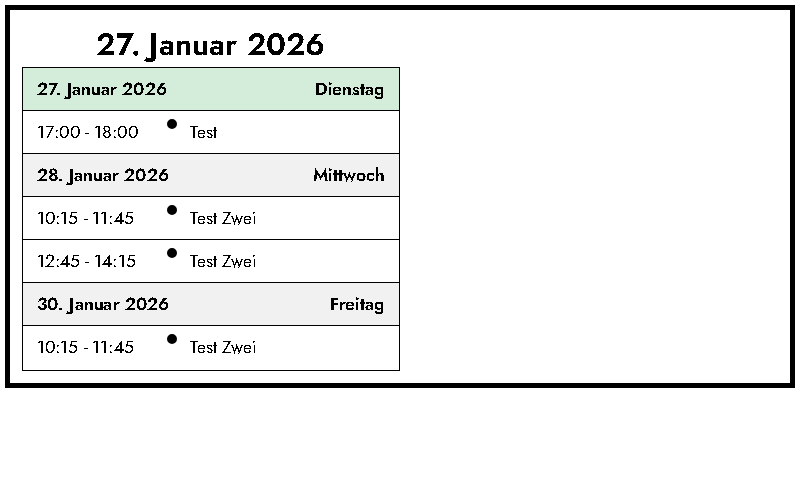
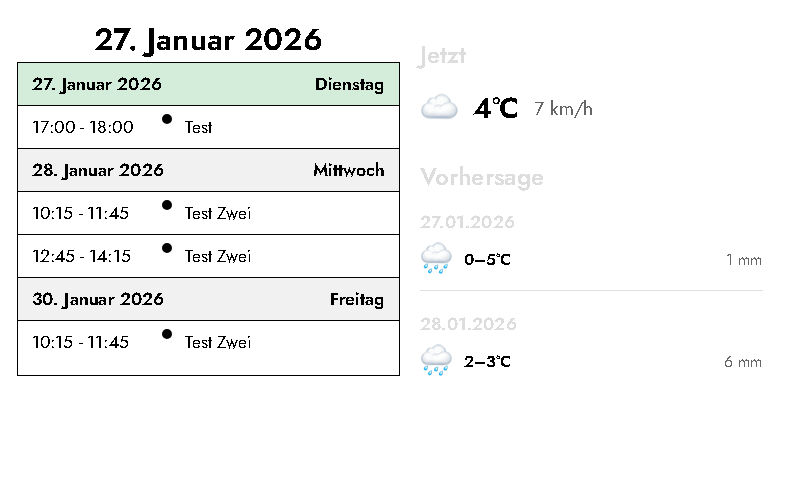
waether 1

diff --git a/src/plugins/seniorDashboard_allDay/render/seniorDashboard_allDay.html b/src/plugins/seniorDashboard_allDay/render/seniorDashboard_allDay.html
@@ -20,7 +20,35 @@
         </div>
     </div>
     <div class="dashboard-right">
-        <!-- Right side content will be added here -->
+        <div class="weather-container">
+            {% if weather and weather.current %}
+            <div class="weather-current">
+                <h2 class="weather-title">Jetzt</h2>
+                <div class="weather-current-content">
+                    <span class="weather-icon">{{ weather.current.icon }}</span>
+                    <span class="weather-temp">{{ weather.current.temperature|round|int }}°C</span>
+                    <span class="weather-wind">{{ weather.current.windspeed|round|int }} km/h</span>
+                </div>
+            </div>
+            {% endif %}
+
+            {% if weather and weather.forecast %}
+            <div class="weather-forecast">
+                <h2 class="weather-title">Vorhersage</h2>
+                {% for day in weather.forecast %}
+                <div class="weather-day">
+                    <div class="weather-day-date">{{ day.date }}</div>
+                    <div class="weather-day-content">
+                        <span class="weather-icon">{{ day.icon }}</span>
+                        <span class="weather-temp-range">{{ day.temp_min|round|int }}–{{ day.temp_max|round|int
+                            }}°C</span>
+                        <span class="weather-precipitation">{{ day.precipitation|round|int }} mm</span>
+                    </div>
+                </div>
+                {% endfor %}
+            </div>
+            {% endif %}
+        </div>
     </div>
 </div>
 

diff --git a/src/plugins/seniorDashboard_allDay/render/seniorDashboard_allDay.css b/src/plugins/seniorDashboard_allDay/render/seniorDashboard_allDay.css
@@ -22,6 +22,89 @@
 .dashboard-right {
   width: 50%;
   height: 100%;
+  padding: 20px;
+  font-family: "Jost";
+  overflow-y: auto;
+}
+
+.weather-container {
+  width: 100%;
+  height: 100%;
+  display: flex;
+  flex-direction: column;
+  gap: 30px;
+}
+
+.weather-title {
+  font-size: calc(1.5 * var(--fc-table-font-size, 1em));
+  font-weight: bold;
+  margin-bottom: 15px;
+  color: var(--fc-border-color, #000);
+}
+
+.weather-current {
+  width: 100%;
+}
+
+.weather-current-content {
+  display: flex;
+  align-items: center;
+  gap: 15px;
+  font-size: calc(1.2 * var(--fc-table-font-size, 1em));
+}
+
+.weather-icon {
+  font-size: calc(2 * var(--fc-table-font-size, 1em));
+  line-height: 1;
+}
+
+.weather-temp {
+  font-size: calc(1.5 * var(--fc-table-font-size, 1em));
+  font-weight: bold;
+}
+
+.weather-wind {
+  font-size: calc(1 * var(--fc-table-font-size, 1em));
+  color: #666;
+}
+
+.weather-forecast {
+  width: 100%;
+}
+
+.weather-day {
+  margin-bottom: 20px;
+  padding-bottom: 15px;
+  border-bottom: 1px solid #e0e0e0;
+}
+
+.weather-day:last-child {
+  border-bottom: none;
+  margin-bottom: 0;
+  padding-bottom: 0;
+}
+
+.weather-day-date {
+  font-size: calc(1.1 * var(--fc-table-font-size, 1em));
+  font-weight: bold;
+  margin-bottom: 8px;
+  color: var(--fc-border-color, #000);
+}
+
+.weather-day-content {
+  display: flex;
+  align-items: center;
+  gap: 12px;
+  font-size: calc(1 * var(--fc-table-font-size, 1em));
+}
+
+.weather-temp-range {
+  font-weight: bold;
+}
+
+.weather-precipitation {
+  color: #666;
+  margin-left: auto;
 }
 
 .calendar {

diff --git a/src/plugins/seniorDashboard_allDay/seniorDashboard_allDay.py b/src/plugins/seniorDashboard_allDay/seniorDashboard_allDay.py
@@ -1,5 +1,5 @@
 from plugins.base_plugin.base_plugin import BasePlugin
-from plugins.seniorDashboard_allDay.constants import LOCALE_MAP, FONT_SIZES
+from plugins.seniorDashboard_allDay.constants import LOCALE_MAP, FONT_SIZES, WEATHER_ICONS
 from PIL import ImageColor
 import icalendar
 import recurring_ical_events
@@ -56,6 +56,9 @@ class SeniorDashboardAllDay(BasePlugin):
         # Get locale for date formatting
         locale_code = display_settings.get("language", "en")
         
+        # Fetch weather data
+        weather_data = self.fetch_weather_data(timezone)
+        
         template_params = {
             "view": view,
             "events": events,
@@ -64,7 +67,8 @@ class SeniorDashboardAllDay(BasePlugin):
             "plugin_settings": display_settings,
             "time_format": time_format,
             "font_scale": FONT_SIZES.get(settings.get("fontSize", "normal")),
-            "locale_code": locale_code
+            "locale_code": locale_code,
+            "weather": weather_data
         }
 
         image = self.render_image(dimensions, "seniorDashboard_allDay.html", "seniorDashboard_allDay.css", template_params)
@@ -145,3 +149,67 @@ class SeniorDashboardAllDay(BasePlugin):
         yiq = (r * 299 + g * 587 + b * 114) / 1000
 
         return '#000000' if yiq >= 150 else '#ffffff'
+
+    def get_weather_icon(self, code):
+        """Get weather icon emoji for a given weather code."""
+        return WEATHER_ICONS.get(code, "❓")
+
+    def fetch_weather_data(self, timezone):
+        """Fetch weather data from Open-Meteo API."""
+        URL = "https://api.open-meteo.com/v1/dwd-icon"
+        
+        # Default coordinates (can be made configurable later)
+        params = {
+            "latitude": 49.8728,
+            "longitude": 8.6512,
+            "current_weather": True,
+            "daily": "temperature_2m_max,temperature_2m_min,precipitation_sum,weathercode",
+            "forecast_days": 3,
+            "timezone": timezone
+        }
+        
+        try:
+            response = requests.get(URL, params=params, timeout=10)
+            response.raise_for_status()
+            data = response.json()
+            
+            # Process current weather
+            current = data.get("current_weather", {})
+            current_weather = {
+                "icon": self.get_weather_icon(current.get("weathercode", 0)),
+                "temperature": current.get("temperature", 0),
+                "windspeed": current.get("windspeed", 0),
+                "weathercode": current.get("weathercode", 0)
+            }
+            
+            # Process daily forecast
+            daily = data.get("daily", {})
+            forecast = []
+            if "time" in daily:
+                for i, day in enumerate(daily["time"]):
+                    # Format date in German format (DD.MM.YYYY)
+                    try:
+                        date_obj = datetime.strptime(day, "%Y-%m-%d")
+                        formatted_date = date_obj.strftime("%d.%m.%Y")
+                    except:
+                        formatted_date = day  # Fallback to original if parsing fails
+                    
+                    forecast.append({
+                        "date": formatted_date,
+                        "icon": self.get_weather_icon(daily.get("weathercode", [0])[i] if i < len(daily.get("weathercode", [])) else 0),
+                        "temp_min": daily.get("temperature_2m_min", [0])[i] if i < len(daily.get("temperature_2m_min", [])) else 0,
+                        "temp_max": daily.get("temperature_2m_max", [0])[i] if i < len(daily.get("temperature_2m_max", [])) else 0,
+                        "precipitation": daily.get("precipitation_sum", [0])[i] if i < len(daily.get("precipitation_sum", [])) else 0,
+                        "weathercode": daily.get("weathercode", [0])[i] if i < len(daily.get("weathercode", [])) else 0
+                    })
+            
+            return {
+                "current": current_weather,
+                "forecast": forecast
+            }
+        except Exception as e:
+            logger.warning(f"Failed to fetch weather data: {str(e)}")
+            return {
+                "current": None,
+                "forecast": []
+            }

diff --git a/src/plugins/seniorDashboard_allDay/constants.py b/src/plugins/seniorDashboard_allDay/constants.py
@@ -90,3 +90,27 @@ LOCALE_MAP = {
     "zh-cn": "Chinese (Simplified)",
     "zh-tw": "Chinese (Traditional)"
 }
+
+WEATHER_ICONS = {
+    0: "☀",   # klar
+    1: "🌤",  # meist klar
+    2: "⛅",   # teilweise bewölkt
+    3: "☁",   # bedeckt
+    45: "🌫",  # Nebel
+    48: "🌫",
+    51: "🌦",  # Niesel
+    53: "🌦",
+    55: "🌦",
+    61: "🌧",  # Regen
+    63: "🌧",
+    65: "🌧",
+    71: "❄",  # Schnee
+    73: "❄",
+    75: "❄",
+    80: "🌦",  # Schauer
+    81: "🌧",
+    82: "🌧",
+    95: "⛈",  # Gewitter
+    96: "⛈",
+    99: "⛈",
+}
